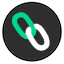
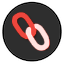
∞

Changed region(s): [[0.1875, 0.1875, 0.7812, 0.8125]]

diff --git a/popup/css/popup.css b/popup/css/popup.css
@@ -31,7 +31,7 @@ body {
   transform: translateY(-2px);
   box-shadow: 0 6px 12px rgba(0, 0, 0, 0.15);
   background: linear-gradient(135deg, #323232 0%, #171717 100%);
-  outline: 2px solid #04D58F;
+  outline: 2px solid #c5372d;
   outline-offset: 2px;
 }
 

diff --git a/README.md b/README.md
@@ -4,8 +4,8 @@ src="icons/link-gopher-64.png" alt="Logo Logo">
 
 # Link Gopher
 
-[![GitHub](https://img.shields.io/badge/Original-1e1e1e?style=for-the-badge&logo=GitHub&logoColor=04D58F)](https://github.com/az0/linkgopher)
-[![GitHub](https://img.shields.io/badge/Fork-1e1e1e?style=for-the-badge&logo=GitHub&logoColor=04D58F)](https://github.com/deathrashed/linkgopher)
+[![GitHub](https://img.shields.io/badge/Original-1e1e1e?style=for-the-badge&logo=GitHub&logoColor=c5372d)](https://github.com/az0/linkgopher)
+[![GitHub](https://img.shields.io/badge/Fork-1e1e1e?style=for-the-badge&logo=GitHub&logoColor=c5372d)](https://github.com/deathrashed/linkgopher)
 
 </div>
 
@@ -25,14 +25,14 @@ There is [brief documentation](https://sites.google.com/site/linkgopher/Home)
 
 ## Features
 
-### 🎨 Modern Dark Theme UI
+### <svg width="16" height="16" viewBox="0 0 512 512" xmlns="http://www.w3.org/2000/svg"><path fill="#c5372d" d="M128.224 477.382C97.468 457.656 353.8 18.668 383.71 34.684c30.063 17.357-225.423 460.055-255.486 442.698m41.597-270.908C229.36 102.967 347.62 13.847 383.71 34.684C306.133-7.59 192.58 75.147 132.737 175.107c-67.115 112.103-73.49 266.164-4.513 302.275c-35.191-26.449-11.749-178.167 41.597-270.908M383.71 34.684c40.605 44.376 4.837 193.602-47.05 277.568c-50.211 83.688-161.014 181.835-208.436 165.13c60.253 40.663 192.727-38.17 253.35-144.487c55.512-97.356 84.585-244.908 2.136-298.211m-4.767-3.12c-300.093-146.21-534.837 258.55-250.72 445.818c-234.64-144.57 4.847-568.985 250.72-445.818m10.247 5.918c102.385 63.26 117.705 202.633 48.243 322.945c-60.27 103.141-181.423 185.587-309.21 116.955c122.275 70.595 278.869 28.56 349.463-93.715c68.193-117.443 32.735-272.799-88.496-346.185"/></svg> Modern Dark Theme UI
 - Beautiful dark mode interface throughout
 - Green accent color (`#04D58F`) for headers and hover effects
 - Blue links (`#4A90E2`) with green outline on hover
 - Custom dark scrollbar styling
 - Fixed 415px popup width with proper word wrapping
 
-### ⚡ Enhanced Popup Interface
+### <svg width="18" height="18" viewBox="0 0 20 20" xmlns="http://www.w3.org/2000/svg"><path fill="#c5372d" d="M16 2H7.979C6.88 2 6 2.88 6 3.98V12c0 1.1.9 2 2 2h8c1.1 0 2-.9 2-2V4c0-1.1-.9-2-2-2m0 10H8V4h8zM4 10H2v6c0 1.1.9 2 2 2h6v-2H4z"/></svg> Enhanced Popup Interface
 - **In-popup link display** - View links directly without opening new tab
 - **Compact layout** - All controls organized efficiently
 - **Collapsible sections** - Click "Links" or "Domains" headers to toggle
@@ -40,17 +40,17 @@ There is [brief documentation](https://sites.google.com/site/linkgopher/Home)
 - **Sorting options** - Sort alphabetically (A-Z) or reverse (Z-A)
 - **Smart button states** - Visual feedback for active extraction mode
 
-### 🔧 Extraction Modes
+### <svg width="20" height="20" viewBox="0 0 20 20" xmlns="http://www.w3.org/2000/svg"><path fill="#c5372d" d="M18.5 20a.5.5 0 0 1-.5.5H6a.5.5 0 0 1-.5-.5v-3H4v3a2 2 0 0 0 2 2h12a2 2 0 0 0 2-2V9.828a2 2 0 0 0-.586-1.414l-5.829-5.828A2.05 2.05 0 0 0 12.172 2H6a2 2 0 0 0-2 2v9h1.5V4a.5.5 0 0 1 .5-.5h6V8a2 2 0 0 0 2 2h4.5zm-5-15.379L17.378 8.5H14a.5.5 0 0 1-.5-.5zM8.75 11.5a.75.75 0 0 0 0 1.5h6.5a.75.75 0 0 0 0-1.5zm-6 2.75a.75.75 0 0 0 0 1.5h6.5a.75.75 0 0 0 0-1.5zm6 2.75a.75.75 0 0 0 0 1.5h6.5a.75.75 0 0 0 0-1.5z"/></svg> Extraction Modes
 - **All** - Extract all links from the page
 - **Domain** - Extract only unique domains (hides links section)
 - **Filter** - Extract links matching a custom pattern
 
-### 📋 Smart Actions
+### <svg width="20" height="20" viewBox="0 0 24 24" xmlns="http://www.w3.org/2000/svg"><path fill="#c5372d" d="M8.28 4.504c1.015-.63 1.73-1.072 2.327-1.363c.581-.283.993-.391 1.393-.391s.812.108 1.393.391c.598.29 1.312.733 2.327 1.363l2 1.241c.961.597 1.636 1.016 2.14 1.402c.489.375.77.684.963 1.036c.193.353.306.766.365 1.398c.061.648.062 1.465.062 2.623v1.521c0 1.97-.002 3.376-.14 4.443c-.136 1.048-.393 1.656-.82 2.099c-.425.439-1.003.7-2.004.839c-1.026.142-2.379.144-4.286.144a.75.75 0 0 0 0 1.5h.058c1.836 0 3.294 0 4.434-.159c1.177-.163 2.128-.509 2.876-1.282c.743-.769 1.073-1.742 1.23-2.947c.152-1.175.152-2.678.152-4.582v-1.613c0-1.113 0-2-.068-2.726c-.07-.75-.217-1.383-.543-1.978c-.327-.597-.78-1.056-1.368-1.507c-.568-.436-1.306-.893-2.227-1.465l-2.067-1.283c-.973-.604-1.753-1.088-2.427-1.416c-.699-.34-1.342-.542-2.05-.542s-1.351.203-2.05.542c-.674.328-1.454.812-2.427 1.416L5.456 4.491c-.92.572-1.659 1.03-2.227 1.465c-.589.45-1.041.91-1.368 1.507c-.398.728-.53 1.516-.58 2.499a.75.75 0 1 0 1.498.076c.046-.904.161-1.423.398-1.855c.193-.352.474-.661.964-1.036c.503-.386 1.178-.805 2.139-1.402z"/><path fill="currentColor" d="M2 12.25a.75.75 0 0 0 0 1.5A8.25 8.25 0 0 1 10.25 22a.75.75 0 0 0 1.5 0A9.75 9.75 0 0 0 2 12.25"/><path fill="currentColor" d="M1.25 16a.75.75 0 0 1 .75-.75A6.75 6.75 0 0 1 8.75 22a.75.75 0 0 1-1.5 0c0-2.9-2.35-5.25-5.25-5.25a.75.75 0 0 1-.75-.75"/><path fill="currentColor" d="M2 18.25a.75.75 0 0 0 0 1.5A2.25 2.25 0 0 1 4.25 22a.75.75 0 0 0 1.5 0A3.75 3.75 0 0 0 2 18.25"/></svg> Smart Actions
 - **Copy** - Copies all links (or domains in Domain mode) to clipboard
 - **Page** - Opens full page view with all features
 - **Auto-extract** - Copy and Page buttons automatically extract if needed
 
-### 🌐 Full Page View
+### <svg width="20" height="20" viewBox="0 0 48 48" xmlns="http://www.w3.org/2000/svg"><g fill="none"><rect width="40" height="32" x="4" y="8" stroke="#c5372d" stroke-linejoin="round" stroke-width="4" rx="3"/><path stroke="#c5372d" stroke-width="4" d="M4 11a3 3 0 0 1 3-3h34a3 3 0 0 1 3 3v9H4z"/><circle r="2" fill="white" transform="matrix(0 -1 -1 0 10 14)"/><circle r="2" fill="white" transform="matrix(0 -1 -1 0 16 14)"/></g></svg> Full Page View
 - Advanced filtering and sorting
 - Copy all functionality
 - Collapsible categories
